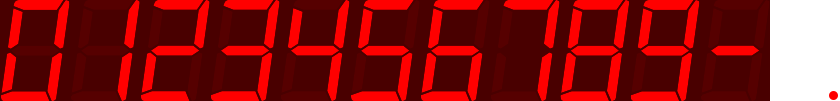
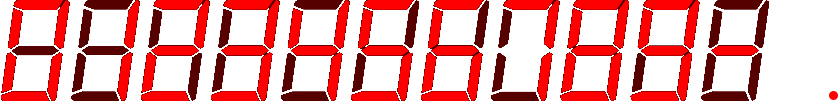
Fix glitch grafico display cifre (aver messo la trasparenza sembra aver risolto il problema)

diff --git a/app/src/main/java/unipd/dei/magnetophone/graphics/StuderTapeDeck.java b/app/src/main/java/unipd/dei/magnetophone/graphics/StuderTapeDeck.java
@@ -241,25 +241,24 @@ public class StuderTapeDeck extends TapeDeck {
             }
         });*/
 
+
         //video offset UI
 
-
-        int minus_x_pos = 1810, plus_x_pos = 2250, lcd_v_width = 250, y_pos = 320, width_heigth = 90;
-
-        addComponent(new UIStatic(minus_x_pos - 14, y_pos - 10, 3, lcd_v_width + width_heigth * 2 + 160, width_heigth + 20, r.getDrawable(R.raw.background_video_offset)));
-
+        //lcd: 69x101
+        addComponent(new UIStatic(1796, 310, 3, 590, 110, r.getDrawable(R.raw.background_video_offset)));
+        int wLCD=440;
         lcdOffset = (UILcdCustom) addComponent(
-                new UILcdCustom((minus_x_pos + width_heigth) + 49,
-                        y_pos + 12, 3, lcd_v_width, (int) (width_heigth * 0.76),
+                new UILcdCustom(1940,
+                        327, 3, wLCD+10, wLCD/6*(101/69),
                         r.getDrawable(R.raw.lcd), 6));
 
         final UIButton[] videoSyncButtons = new UIButton[2];
 
-        videoSyncButtons[0] = (UIButton) addComponent(new UIButton(minus_x_pos + 5,
-                y_pos, 4, width_heigth, width_heigth,
+        videoSyncButtons[0] = (UIButton) addComponent(new UIButton(1815,
+                320, 4, 90, 90,
                 r.getDrawable(R.raw.btn_minus), r.getDrawable(R.raw.btn_minus)));
-        videoSyncButtons[1] = (UIButton) addComponent(new UIButton(plus_x_pos + 25,
-                y_pos, 4, width_heigth, width_heigth,
+        videoSyncButtons[1] = (UIButton) addComponent(new UIButton(2275,
+                320, 4, 90, 90,
                 r.getDrawable(R.raw.btn_plus), r.getDrawable(R.raw.btn_plus)));
 
         videoSyncButtons[0].setCallback(new ComponentCallback() {
